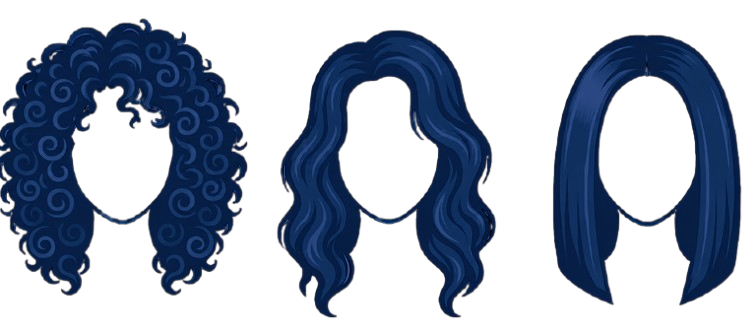
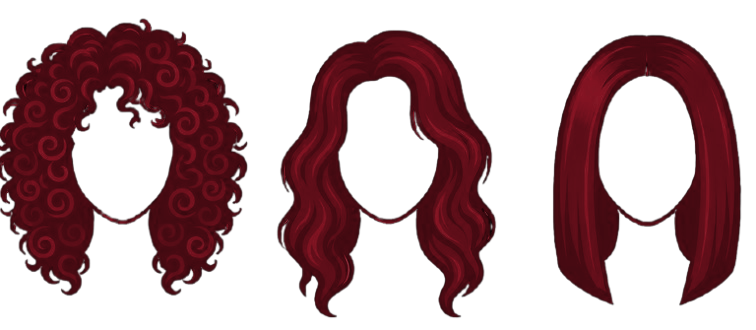
crm

diff --git a/assets/js/crm/admin-crm.js b/assets/js/crm/admin-crm.js
@@ -813,6 +813,26 @@
     return options;
   }
 
+  function applyCrmFavicon() {
+    var favicon = optionalImageSettingPayload('favicon_image');
+    var old = document.querySelector('link[data-crm-favicon]');
+    if (old) old.remove();
+
+    // Keep the bootstrap icon in the document head so Chrome does not fall back
+    // to requesting /favicon.ico while the CRM settings are loading.
+    var bootstrap = document.querySelector('link[data-favicon-bootstrap]');
+    if (!favicon || !favicon.url) return;
+
+    var link = document.createElement('link');
+    link.rel = 'icon';
+    link.href = favicon.url + (favicon.url.indexOf('?') === -1 ? '?crm-favicon=' + Date.now() : '&crm-favicon=' + Date.now());
+    link.dataset.crmFavicon = 'true';
+    document.head.appendChild(link);
+
+    // Remove the bootstrap data URI once the real favicon is installed.
+    if (bootstrap) bootstrap.remove();
+  }
+
   async function loadApplicationSettings(ensureSocial) {
     var result = await window.salonSupabase
       .from('application_settings')
@@ -821,6 +841,7 @@
     if (result.error) throw result.error;
     state.appSettings = result.data || [];
     deactivateLegacySocialSettings();
+    applyCrmFavicon();
     renderApplicationSettings();
   }
 
@@ -965,14 +986,31 @@
       return;
     }
 
-    var socialSettings = SOCIAL_DEFAULTS.map(function(meta){
-      var existing = socialRow(meta.key);
-      var payload = socialPayloadFor(meta);
-      var urlInput = document.querySelector('[data-social-url="'+meta.key+'"]');
-      var activeInput = document.querySelector('[data-social-active="'+meta.key+'"]');
-      payload.url = urlInput ? urlInput.value.trim() : payload.url;
-      return {key:meta.key,value:{url:payload.url},description:meta.label+' social link.',active:!!(activeInput && activeInput.checked)};
-    });
+    var socialSettings;
+    try {
+      socialSettings = SOCIAL_DEFAULTS.map(function(meta){
+        var payload = socialPayloadFor(meta);
+        var urlInput = document.querySelector('[data-social-url="'+meta.key+'"]');
+        var activeInput = document.querySelector('[data-social-active="'+meta.key+'"]');
+        payload.url = urlInput ? urlInput.value.trim() : payload.url;
+        var active = !!(activeInput && activeInput.checked);
+
+        // An active social channel must have a real public URL. Without this,
+        // the public website intentionally hides the channel, which previously
+        // made the CRM checkbox look like it was working when nothing appeared.
+        if (active && !payload.url) {
+          throw new Error(meta.label + ' is marked active, but its Public URL is empty. Enter the public URL or turn off “Active — show on website”.');
+        }
+        if (active && !/^https?:\/\//i.test(payload.url)) {
+          throw new Error(meta.label + ' must use a public URL beginning with https:// or http://.');
+        }
+
+        return {key:meta.key,value:{url:payload.url},description:meta.label+' social link.',active:active};
+      });
+    } catch (err) {
+      message(err.message,'error');
+      return;
+    }
 
     var settings = [
       {key:'website_name', value:websiteName, description:'Public website name used across the website and browser title.'},

diff --git a/admin.html b/admin.html
@@ -3,6 +3,8 @@
 <head>
   <meta charset="UTF-8">
   <meta name="viewport" content="width=device-width, initial-scale=1.0">
+  <!-- Prevent browser fallback requests to /favicon.ico; CRM/Supabase favicon is applied after settings load. -->
+  <link rel="icon" href="data:," data-favicon-bootstrap="true">
   <title>CRM</title>
   <link rel="stylesheet" href="assets/css/style.css">
   <link rel="stylesheet" href="assets/css/admin-crm.css">
@@ -723,7 +725,7 @@
               <div class="crm-field">
                 <label for="favicon-image-file">Upload favicon</label>
                 <input id="favicon-image-file" type="file" accept="image/png,image/jpeg,image/webp,image/x-icon,image/vnd.microsoft.icon">
-                <small>PNG, ICO, JPG or WEBP. A square image is recommended. Maximum 2 MB.</small>
+                <small>PNG, ICO, JPG or WEBP. A square image is recommended; 31×31 or 32×32 works. Maximum 2 MB.</small>
               </div>
               <div class="crm-branding-actions">
                 <button type="button" class="crm-btn crm-btn-primary crm-btn-small" id="upload-favicon-image">Upload / Replace</button>

diff --git a/seo-head.html b/seo-head.html
@@ -3,10 +3,6 @@
 
 <meta name="viewport" content="width=device-width, initial-scale=1, shrink-to-fit=no">
 
-<link rel="apple-touch-icon" href="assets/images/favicon-32x32.png">
-<link rel="shortcut icon" type="image/x-icon" href="assets/images/favicon-32x32.png">
-<link rel="icon" type="image/png" href="assets/images/favicon-32x32.png">
-<link rel="icon" type="image/x-icon" href="assets/images/favicon.ico">
 
 <meta name="description" content="Glow and Glam by Sara – Qatar’s premier salon for professional haircuts, styling, coloring, keratin, botox, and beauty treatments. Experience luxury hair care and personalized beauty services." />
 <meta name="keywords" content="Qatar salon, Doha hair salon, Glow and Glam by Sara, haircuts, balayage, highlights, keratin treatment, hair botox, blow dry, women's hair, men's grooming, beauty salon Qatar" />

diff --git a/assets/js/config/application-settings.js b/assets/js/config/application-settings.js
@@ -114,8 +114,11 @@
       var row = settings[key];
       if (!row || row.active === false) return;
       var value = parseValue(row.setting_value);
-      if (!value || !value.url) return;
-      social[slug] = value;
+      if (!value || !String(value.url || '').trim()) {
+        console.warn('[Application settings] ' + slug + ' is active but has no public URL; the channel will remain hidden.');
+        return;
+      }
+      social[slug] = {url:String(value.url).trim()};
     });
     document.querySelectorAll('.site-social-link[data-social]').forEach(function(link) {
       var slug = link.getAttribute('data-social');

diff --git a/booking-review.html b/booking-review.html
@@ -1,1 +1,3 @@
-<!DOCTYPE html><html lang="en"><head><meta http-equiv="refresh" content="0; url=booking.html"><script>window.location.replace("booking.html"+window.location.search);</script></head><body></body></html>
+<!DOCTYPE html><html lang="en"><head>
+  <!-- Prevent browser fallback requests to /favicon.ico; CRM/Supabase favicon is applied after settings load. -->
+  <link rel="icon" href="data:," data-favicon-bootstrap="true"><meta http-equiv="refresh" content="0; url=booking.html"><script>window.location.replace("booking.html"+window.location.search);</script></head><body></body></html>

diff --git a/booking.html b/booking.html
@@ -2,6 +2,9 @@
 <html class="wide wow-animation" lang="en">
 <head>
   <title>Book an Appointment</title>
+
+  <!-- Prevent browser fallback requests to /favicon.ico; CRM/Supabase favicon is applied after settings load. -->
+  <link rel="icon" href="data:," data-favicon-bootstrap="true">
   <link rel="stylesheet" type="text/css" href="//fonts.googleapis.com/css?family=Roboto+Mono:300,300italic,400,700%7CArvo:400,700">
   <link rel="stylesheet" href="assets/fonts/telma/css/telma.css">
   <link rel="stylesheet" href="assets/css/style.css">

diff --git a/vouchers.html b/vouchers.html
@@ -5,6 +5,9 @@
   <!-- Site Title-->
   <title>Vouchers</title>
 
+  <!-- Prevent browser fallback requests to /favicon.ico; CRM/Supabase favicon is applied after settings load. -->
+  <link rel="icon" href="data:," data-favicon-bootstrap="true">
+
   <!-- Stylesheets-->
   <link rel="stylesheet" type="text/css"
     href="//fonts.googleapis.com/css?family=Roboto+Mono:300,300italic,400,700%7CArvo:400,700">

diff --git a/about.html b/about.html
@@ -5,6 +5,9 @@
   <!-- Site Title-->
   <title>About</title>
 
+  <!-- Prevent browser fallback requests to /favicon.ico; CRM/Supabase favicon is applied after settings load. -->
+  <link rel="icon" href="data:," data-favicon-bootstrap="true">
+
   <!-- Stylesheets-->
   <link rel="stylesheet" type="text/css"
     href="//fonts.googleapis.com/css?family=Roboto+Mono:300,300italic,400,700%7CArvo:400,700">

diff --git a/index.html b/index.html
@@ -5,6 +5,9 @@
   <!-- Site Title-->
   <title>Home</title>
 
+  <!-- Prevent browser fallback requests to /favicon.ico; CRM/Supabase favicon is applied after settings load. -->
+  <link rel="icon" href="data:," data-favicon-bootstrap="true">
+
   <!-- Stylesheets-->
   <link rel="stylesheet" type="text/css"
     href="//fonts.googleapis.com/css?family=Roboto+Mono:300,300italic,400,700%7CArvo:400,700">

diff --git a/faq.html b/faq.html
@@ -4,6 +4,9 @@
 <head>
   <title>FAQ</title>
 
+  <!-- Prevent browser fallback requests to /favicon.ico; CRM/Supabase favicon is applied after settings load. -->
+  <link rel="icon" href="data:," data-favicon-bootstrap="true">
+
   <!-- Stylesheets-->
   <link rel="stylesheet" type="text/css"
     href="//fonts.googleapis.com/css?family=Roboto+Mono:300,300italic,400,700%7CArvo:400,700">

diff --git a/booking-date-time.html b/booking-date-time.html
@@ -1,6 +1,8 @@
 <!DOCTYPE html>
 <html lang="en">
 <head>
+  <!-- Prevent browser fallback requests to /favicon.ico; CRM/Supabase favicon is applied after settings load. -->
+  <link rel="icon" href="data:," data-favicon-bootstrap="true">
   <meta http-equiv="refresh" content="0; url=booking.html">
   <script>window.location.replace('booking.html');</script>
 </head>

diff --git a/assets/css/custom.css b/assets/css/custom.css
@@ -1,5 +1,5 @@
 :root {
-  --color-primary: #16377c;
+  --color-primary: #2d1014;
   --color-secondary: #d01820;
   --color-tertiary: #014d55;
 }
@@ -165,7 +165,7 @@ html[lang="ar"] .box-contacts {
 }
 
 .logo-glow {
-  color: var(--color-secondary);
+  color: var(--color-primary);
   font-size: 28px;
 }
 
